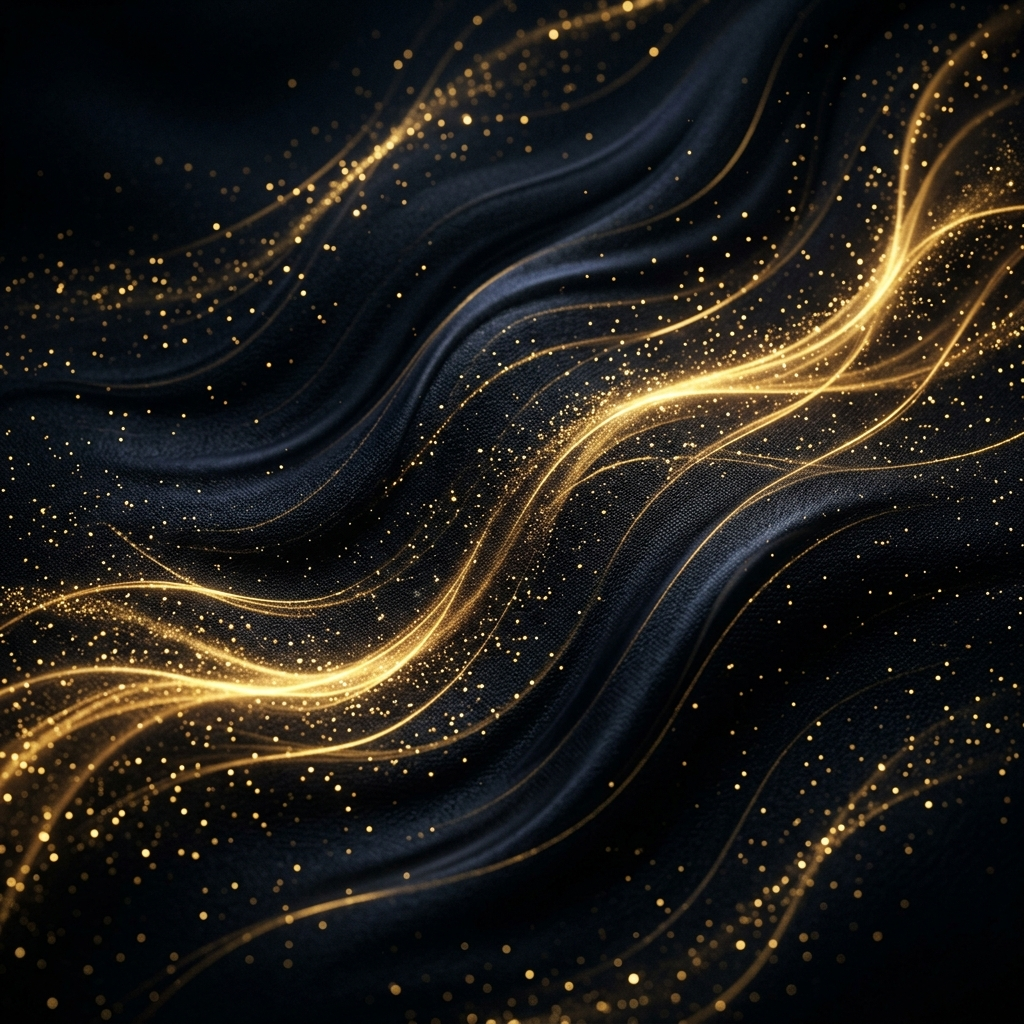
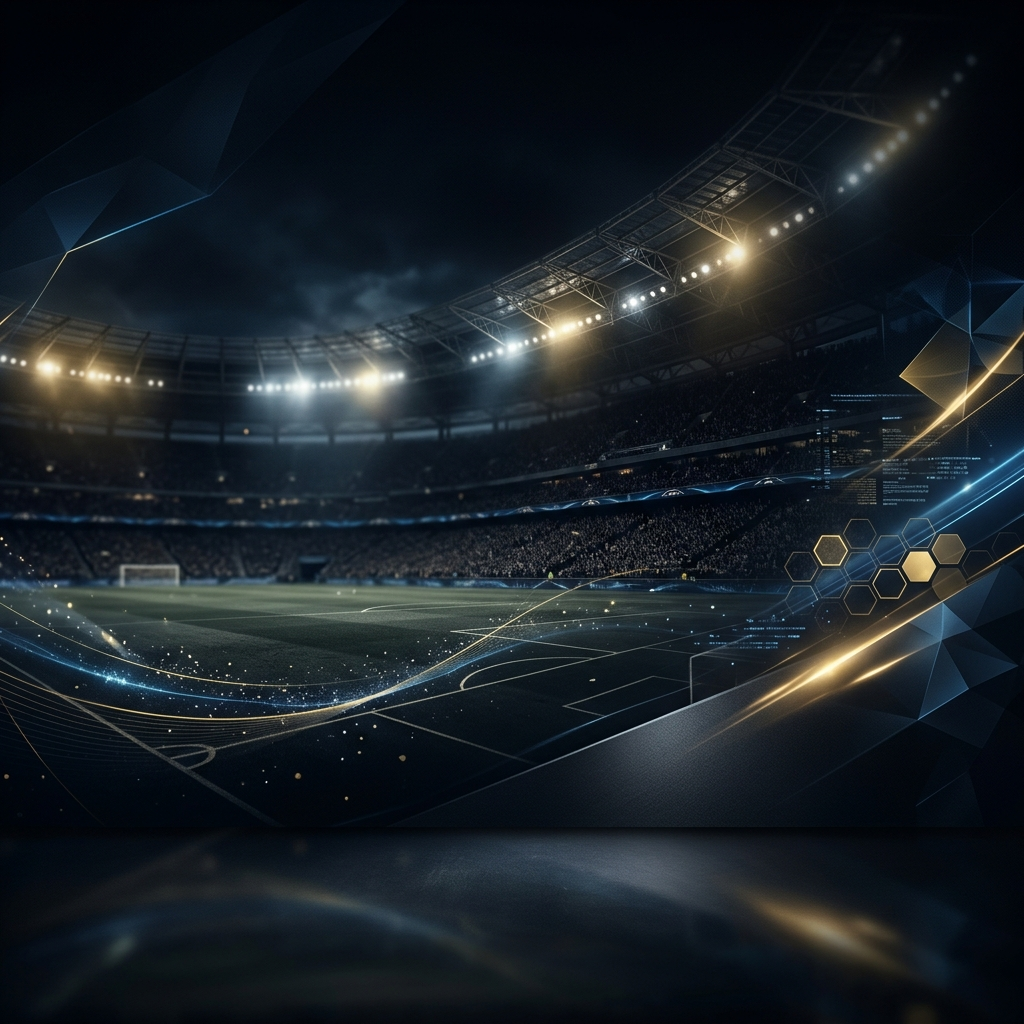
Update frontend: Hardcode whatsapp, text, images, and remove activation portal

diff --git a/frontend/src/app/download/page.tsx b/frontend/src/app/download/page.tsx
@@ -540,63 +540,6 @@ export default function DownloadPage() {
         </div>
       </section>
 
-      {/* Relocated Visitor Activation Section */}
-      <section 
-        className="visitor-activation-section padding-top padding-bottom pb-lg-half pos-rel"
-        style={{ backgroundColor: '#070a18', borderTop: '1px solid rgba(212,175,55,0.06)' }}
-      >
-        <div className="container">
-          <div className="max-w-lg mx-auto bg-[#0d1124] border border-slate-800/80 rounded-3xl p-8 shadow-2xl relative overflow-hidden">
-            <div className="absolute -top-10 -right-10 w-32 h-32 bg-amber-500/5 rounded-full blur-2xl pointer-events-none" />
-            <div className="absolute -bottom-10 -left-10 w-32 h-32 bg-yellow-500/5 rounded-full blur-2xl pointer-events-none" />
-            
-            <div className="text-center mb-8">
-              <span className="text-xs font-black text-amber-500 tracking-widest uppercase bg-amber-950/40 border border-amber-900/30 px-3.5 py-1 rounded-full">تفعيل مجاني</span>
-              <h3 className="text-2xl font-black text-white mt-4 mb-2">بوابة تفعيل كود الزائر</h3>
-              <p className="text-slate-400 text-xs font-medium">أدخل كود التفعيل الممنوح لك للاستفادة من البث التجريبي لمدة 24 ساعة</p>
-            </div>
-
-            <form onSubmit={handleActivation} autoComplete="off" className="space-y-5">
-              <div>
-                <label className="block text-xs text-slate-400 mb-2 font-bold" htmlFor="code">أدخل كود التفعيل</label>
-                <input
-                  type="text"
-                  id="code"
-                  placeholder="أدخل كود التفعيل هنا"
-                  value={activationCode}
-                  onChange={(e) => setActivationCode(e.target.value)}
-                  className="w-full px-4 py-3 bg.95 bg-[#070b1e] border border-slate-700 focus:border-amber-500 rounded-xl focus:outline-none text-xs text-center font-mono placeholder:font-sans"
-                  required
-                />
-              </div>
-
-              <div>
-                <label className="block text-xs text-slate-400 mb-2 font-bold" htmlFor="select">اختر الباقة</label>
-                <select
-                  id="select"
-                  value={selectedPackage}
-                  onChange={(e) => setSelectedPackage(e.target.value)}
-                  className="w-full px-4 py-3 bg-[#070b1e] border border-slate-700 focus:border-amber-500 rounded-xl focus:outline-none text-xs text-right text-white"
-                >
-                  <option value="all">باقة جميع القنوات</option>
-                  <option value="sports">باقة القنوات الرياضية</option>
-                  <option value="worldcup">باقة كأس العالم</option>
-                </select>
-              </div>
-
-              <button
-                type="submit"
-                id="snd"
-                className="w-full py-4 bg-gradient-to-r from-amber-500 to-yellow-500 hover:from-amber-400 hover:to-yellow-400 text-black font-black rounded-xl shadow-lg shadow-amber-500/20 transition-all flex items-center justify-between px-6"
-              >
-                <span>تفعيــل كود الزائر</span>
-                <i className="fas fa-arrow-left"></i>
-              </button>
-            </form>
-          </div>
-        </div>
-      </section>
-
       {/* FAQ Section */}
       <section className="faq-section ugeen-modern-faq padding-top">
         <div className="container">
@@ -750,116 +693,7 @@ export default function DownloadPage() {
         </div>
       </footer>
 
-      {/* ACTIVATION MODAL (INTERACTIVE USER EXPERINCE) */}
-      {showModal && (
-        <div className="ugeen-guest-modal-overlay">
-          <div className="ugeen-guest-modal-content border border-[#d4af37]/30">
-            
-            {/* Modal Header */}
-            <div className="ugeen-guest-modal-header border-b border-slate-800">
-              <h3 className="ugeen-guest-modal-title text-amber-500">تفعيل كود الزائر</h3>
-              <button
-                onClick={closeModal}
-                className="ugeen-guest-modal-close"
-              >
-                ✕
-              </button>
-            </div>
 
-            {/* Modal Body */}
-            <div className="ugeen-guest-modal-body">
-              {isActivating ? (
-                <div className="ugeen-guest-loading-card">
-                  <div className="w-12 h-12 rounded-full border-4 border-amber-500 border-t-transparent animate-spin mb-4" />
-                  <h3>جاري الاتصال بالسيرفر وتوليد الكود...</h3>
-                  <p>يرجى الانتظار، جاري تفعيل كود الزائر الخاص بك.</p>
-                </div>
-              ) : activationSuccess ? (
-                <div>
-                  {/* Success Header */}
-                  <div className="ugeen-guest-success-head">
-                    <div className="ugeen-guest-success-icon bg-amber-500 text-black text-2xl font-black flex items-center justify-center w-12 h-12 rounded-full mx-auto mb-3">
-                      ✓
-                    </div>
-                    <h3>تم تفعيل كود الزائر بنجاح!</h3>
-                    <p>كودك نشط حالياً لمدة 24 ساعة.</p>
-                  </div>
-
-                  {/* Credentials Grid */}
-                  <div className="ugeen-guest-credentials">
-                    
-                    <div className="ugeen-guest-row">
-                      <span className="ugeen-guest-icon">📡</span>
-                      <span className="ugeen-guest-label">Host URL</span>
-                      <span className="ugeen-guest-value select-all">{settings.activationModal.hostUrl}</span>
-                      <button
-                        onClick={() => handleCopy(settings.activationModal.hostUrl, 'host')}
-                        className="ugeen-guest-copy hover:text-amber-500"
-                      >
-                        {copiedKey === 'host' ? 'تم النسخ!' : 'نسخ'}
-                      </button>
-                    </div>
-
-                    <div className="ugeen-guest-row">
-                      <span className="ugeen-guest-icon">👤</span>
-                      <span className="ugeen-guest-label">Username</span>
-                      <span className="ugeen-guest-value select-all">{settings.activationModal.username}</span>
-                      <button
-                        onClick={() => handleCopy(settings.activationModal.username, 'user')}
-                        className="ugeen-guest-copy hover:text-amber-500"
-                      >
-                        {copiedKey === 'user' ? 'تم النسخ!' : 'نسخ'}
-                      </button>
-                    </div>
-
-                    <div className="ugeen-guest-row">
-                      <span className="ugeen-guest-icon">🔑</span>
-                      <span className="ugeen-guest-label">Password</span>
-                      <span className="ugeen-guest-value select-all">{settings.activationModal.password}</span>
-                      <button
-                        onClick={() => handleCopy(settings.activationModal.password, 'pass')}
-                        className="ugeen-guest-copy hover:text-amber-500"
-                      >
-                        {copiedKey === 'pass' ? 'تم النسخ!' : 'نسخ'}
-                      </button>
-                    </div>
-
-                    <div className="ugeen-guest-row ugeen-guest-download-row">
-                      <span className="ugeen-guest-icon">📂</span>
-                      <span className="ugeen-guest-label">M3U File</span>
-                      <span className="ugeen-guest-value">
-                        <a
-                          href={settings.activationModal.m3uUrl}
-                          target="_blank"
-                          rel="noreferrer"
-                          className="ugeen-guest-m3u text-amber-500 hover:underline"
-                        >
-                          تحميل ملف القنوات M3U
-                        </a>
-                      </span>
-                      <button
-                        onClick={() => handleCopy(settings.activationModal.m3uUrl, 'm3u')}
-                        className="ugeen-guest-copy hover:text-amber-500"
-                      >
-                        {copiedKey === 'm3u' ? 'تم النسخ!' : 'نسخ'}
-                      </button>
-                    </div>
-                  </div>
-
-                  {/* Close button */}
-                  <button
-                    onClick={closeModal}
-                    className="ugeen-guest-close-btn bg-gradient-to-r from-amber-500 to-yellow-500 text-black font-black hover:from-amber-400 hover:to-yellow-400"
-                  >
-                    إغلاق وبدء المشاهدة
-                  </button>
-                </div>
-              ) : null}
-            </div>
-
-          </div>
-        </div>
-      )}
 
     </div>
   );
